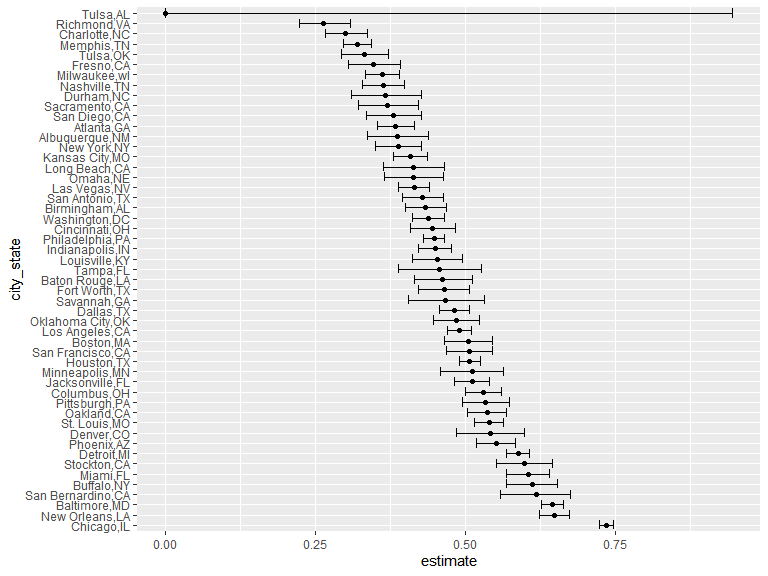
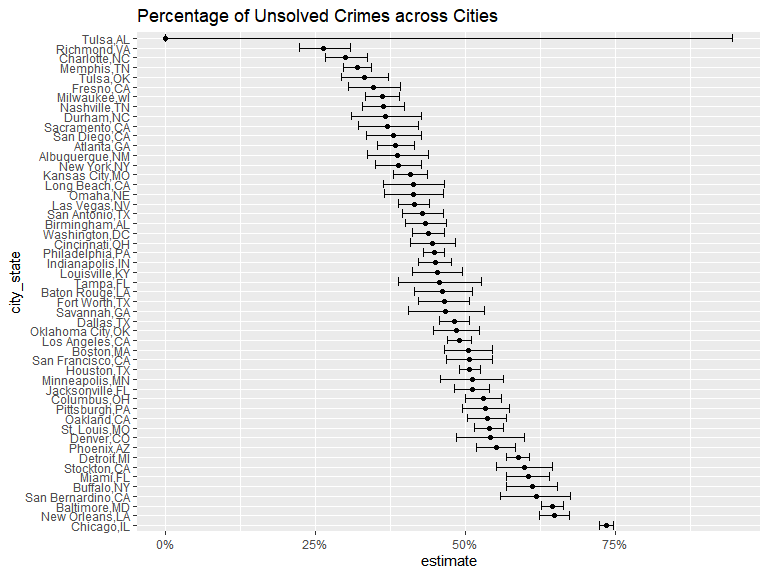
kniting the document. why is latax not rendered correctly?

diff --git a/p8105_hw5_zj2357.md b/p8105_hw5_zj2357.md
@@ -35,7 +35,7 @@ joined_df =
 write_csv(joined_df, "data/tidy/result.csv")
 ```
 
-making a plot
+Making a spaghetti plot
 
 ``` r
 joined_df %>%
@@ -51,18 +51,20 @@ joined_df %>%
 ```
 
 <img src="p8105_hw5_zj2357_files/figure-gfm/unnamed-chunk-2-1.png" width="90%" />
+According to the plot, the observation of the experiment arm was similar
+to the control arm in week 1. However, as time goes by, their value
+gradually increased, and became higher than all individuals in the
+control arm.
 
 # Problem 2
+
+Loading the dataset and summarize the crime cases over city.
 
 ``` r
 rm(list = ls())
 
-homi_df = read_csv("data/homicide-data.csv")
-```
-
-``` r
 homi_df = 
-  homi_df %>%
+  read_csv("data/homicide-data.csv") %>%
   mutate(
     city_state = str_c(city, ",", state) 
   ) %>%
@@ -71,7 +73,11 @@ homi_df =
     n_obs = n(),
     unsolved = sum(disposition %in% c("Closed without arrest","Open/No arrest"))
   )
-  
+```
+
+Analyze the proportion of unsolved crimes in `Baltimore,MD`.
+
+``` r
 homi_filt = filter(homi_df,city_state == "Baltimore,MD")
 test_res =  prop.test(x = homi_filt$unsolved, n = homi_filt$n_obs)
 save(test_res, file = "results/prop_test_BMD.RData")
@@ -83,6 +89,11 @@ broom::tidy(test_res) %>%
     ##   estimate conf.low conf.high
     ##      <dbl>    <dbl>     <dbl>
     ## 1    0.646    0.628     0.663
+
+Thus, about 64.6% of crimes of `Baltimore,MD` are not solved. The 95%
+Confidence Interval is \[62.8%, 66.3%\].
+
+Then, run the process for all cities in `city_state` using `map_df()`:
 
 ``` r
 conf_int =
@@ -108,32 +119,43 @@ conf_int
     ## 10 Cincinnati,OH     0.445    0.408     0.483
     ## # … with 41 more rows
 
+Sort the cities by estimated proportion, and then make a plot:
+
 ``` r
 conf_int %>%
   mutate(
     city_state = fct_reorder(city_state, -estimate)
   ) %>%
   ggplot(aes(x = estimate, y = city_state)) +
-  geom_point()+
-  geom_errorbar(aes(xmin = conf.low, xmax = conf.high))
+  geom_point() +
+  geom_errorbar(aes(xmin = conf.low, xmax = conf.high)) +
+  scale_x_continuous(labels = scales::percent_format(scale = 100)) +
+  labs(title = "Percentage of Unsolved Crimes across Cities")
 ```
 
 <img src="p8105_hw5_zj2357_files/figure-gfm/unnamed-chunk-6-1.png" width="90%" />
 
+Obviously, `Chicago,IL` has the highest proportion of unsolved crimes.
+However, because `Tulsa, AL` has only one crime and it is solved, the
+Confidence Interval is \[0, 1\], which makes no prediction power.
+
 # Problem 3
 
-``` r
-rm(list=ls())
+Create a function that generates `n_sample` number of samples with
+parameter `u`, `sigma` and `n`.
 
-prop_rej <- function(u = 0, sigma = 5, n = 30, n_dataset = 5000){
-  dataset = map(.x = rep(u, n_dataset), .f = ~tibble(data=rnorm(n,.x,sigma))) %>%
+``` r
+rm(list = ls())
+
+prop_rej <- function(u = 0, sigma = 5, n = 30, n_sample = 5000){
+  dataset = map(.x = rep(u, n_sample), .f = ~tibble(data=rnorm(n,.x,sigma))) %>%
     map(t.test) %>%
     map_df(broom::tidy)
 
   p_rej = dataset %>%
-    filter(p.value < 0.05)%>%
+    filter(p.value < 0.05) %>%
     nrow() %>%
-    `/`(n_dataset)
+    `/`(n_sample)
 
   u_est = dataset %>%
     pull(estimate) %>%
@@ -144,15 +166,33 @@ prop_rej <- function(u = 0, sigma = 5, n = 30, n_dataset = 5000){
     pull(estimate) %>%
     mean()
   
-  tibble(u=u, p_rej = p_rej, u_est = u_est, u_rej = u_rej)
+  tibble(u = u, p_rej = p_rej, u_est = u_est, u_rej = u_rej)
 }
+```
 
+Iterating the function for $u=\{0,1,2,3,4,5,6\}$:
 
-# iterating over u = 0:6
+``` r
 exp_res = 
   0:6 %>%
   map_df(prop_rej)
+
+exp_res
 ```
+
+    ## # A tibble: 7 × 4
+    ##       u p_rej   u_est  u_rej
+    ##   <int> <dbl>   <dbl>  <dbl>
+    ## 1     0 0.046 -0.0172 -0.199
+    ## 2     1 0.186  1.01    2.24 
+    ## 3     2 0.551  1.99    2.62 
+    ## 4     3 0.897  3.00    3.18 
+    ## 5     4 0.988  4.01    4.04 
+    ## 6     5 1      5.02    5.02 
+    ## 7     6 1      6.00    6.00
+
+Then, make a plot for the percentage of samples where null was rejected
+$(p<0.05)$.
 
 ``` r
 exp_res %>%
@@ -164,7 +204,15 @@ exp_res %>%
   labs(title = "Percentage of Rejection over Different u")
 ```
 
-<img src="p8105_hw5_zj2357_files/figure-gfm/unnamed-chunk-8-1.png" width="90%" />
+<img src="p8105_hw5_zj2357_files/figure-gfm/unnamed-chunk-9-1.png" width="90%" />
+
+Obviously, with the increase of $u$, the power of the test increased
+quickly, and saturated at about $u=5$. It is also notable that when
+$u=0$, the percentage of rejection is not the power of the test, but the
+percentage of type-I error, because the null hypothesis is true.
+
+Finally, make a plot showing the comparison of $\hat{u}$ between all and
+rejected samples.
 
 ``` r
 exp_res %>%
@@ -178,7 +226,15 @@ exp_res %>%
   scale_color_discrete(labels = c("all", "rejected"))+
   scale_x_continuous(breaks = 0:6)+
   ylab("estimated u")+
-  labs(title = "Comparasion of estimated between all and rejected samples")
+  labs(title = "Comparison of estimated u between all and rejected samples")
 ```
 
-<img src="p8105_hw5_zj2357_files/figure-gfm/unnamed-chunk-9-1.png" width="90%" />
+<img src="p8105_hw5_zj2357_files/figure-gfm/unnamed-chunk-10-1.png" width="90%" />
+
+Because the number of rejected samples is low when $u=0$, the
+$\hat{u}_{rej}$ is quite unstable around 0.
+
+For $u \in \{1,2,3,4,5,6\}$, $\hat{u}_{rej}>\hat{u}_{all}$. However, the
+gap $\hat{u}_{rej}-\hat{u}_{all}$ gradualy decreases with the increase
+of $u$. Because when $u \geq 5$, nearly all samples are rejected,
+$\hat{u}_{rej} \approx \hat{u}_{all}$ under such conditions.
